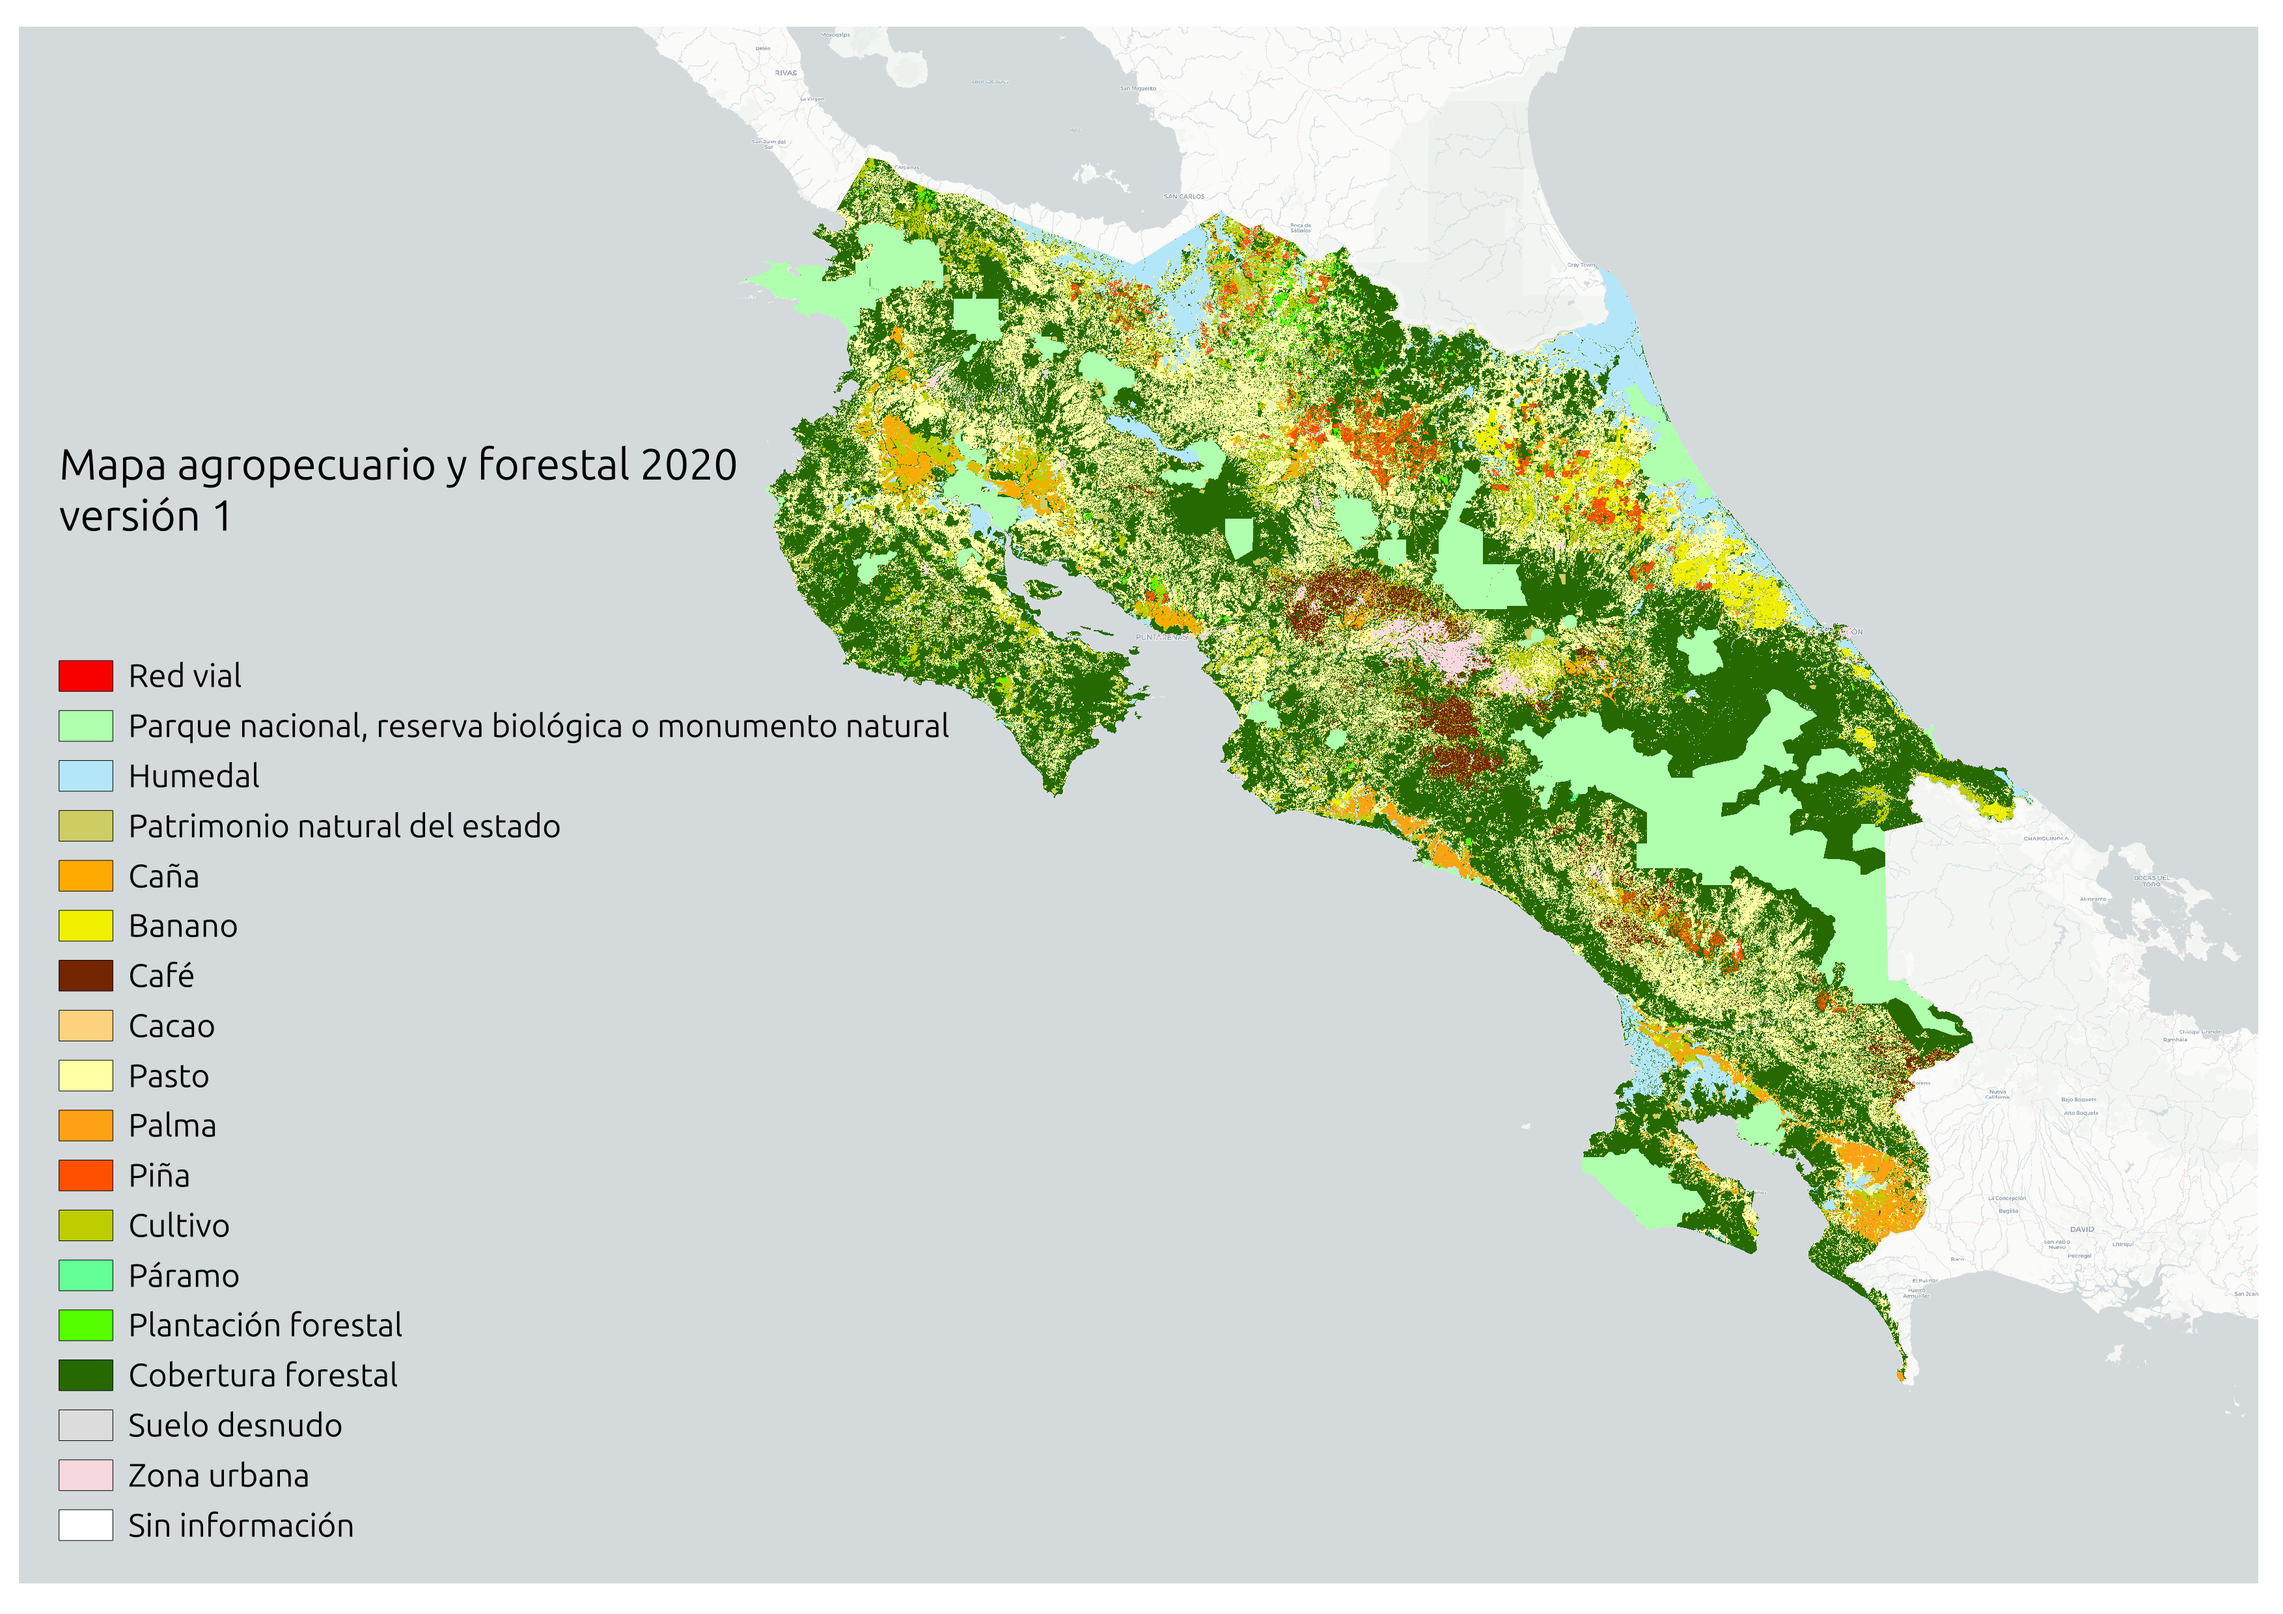
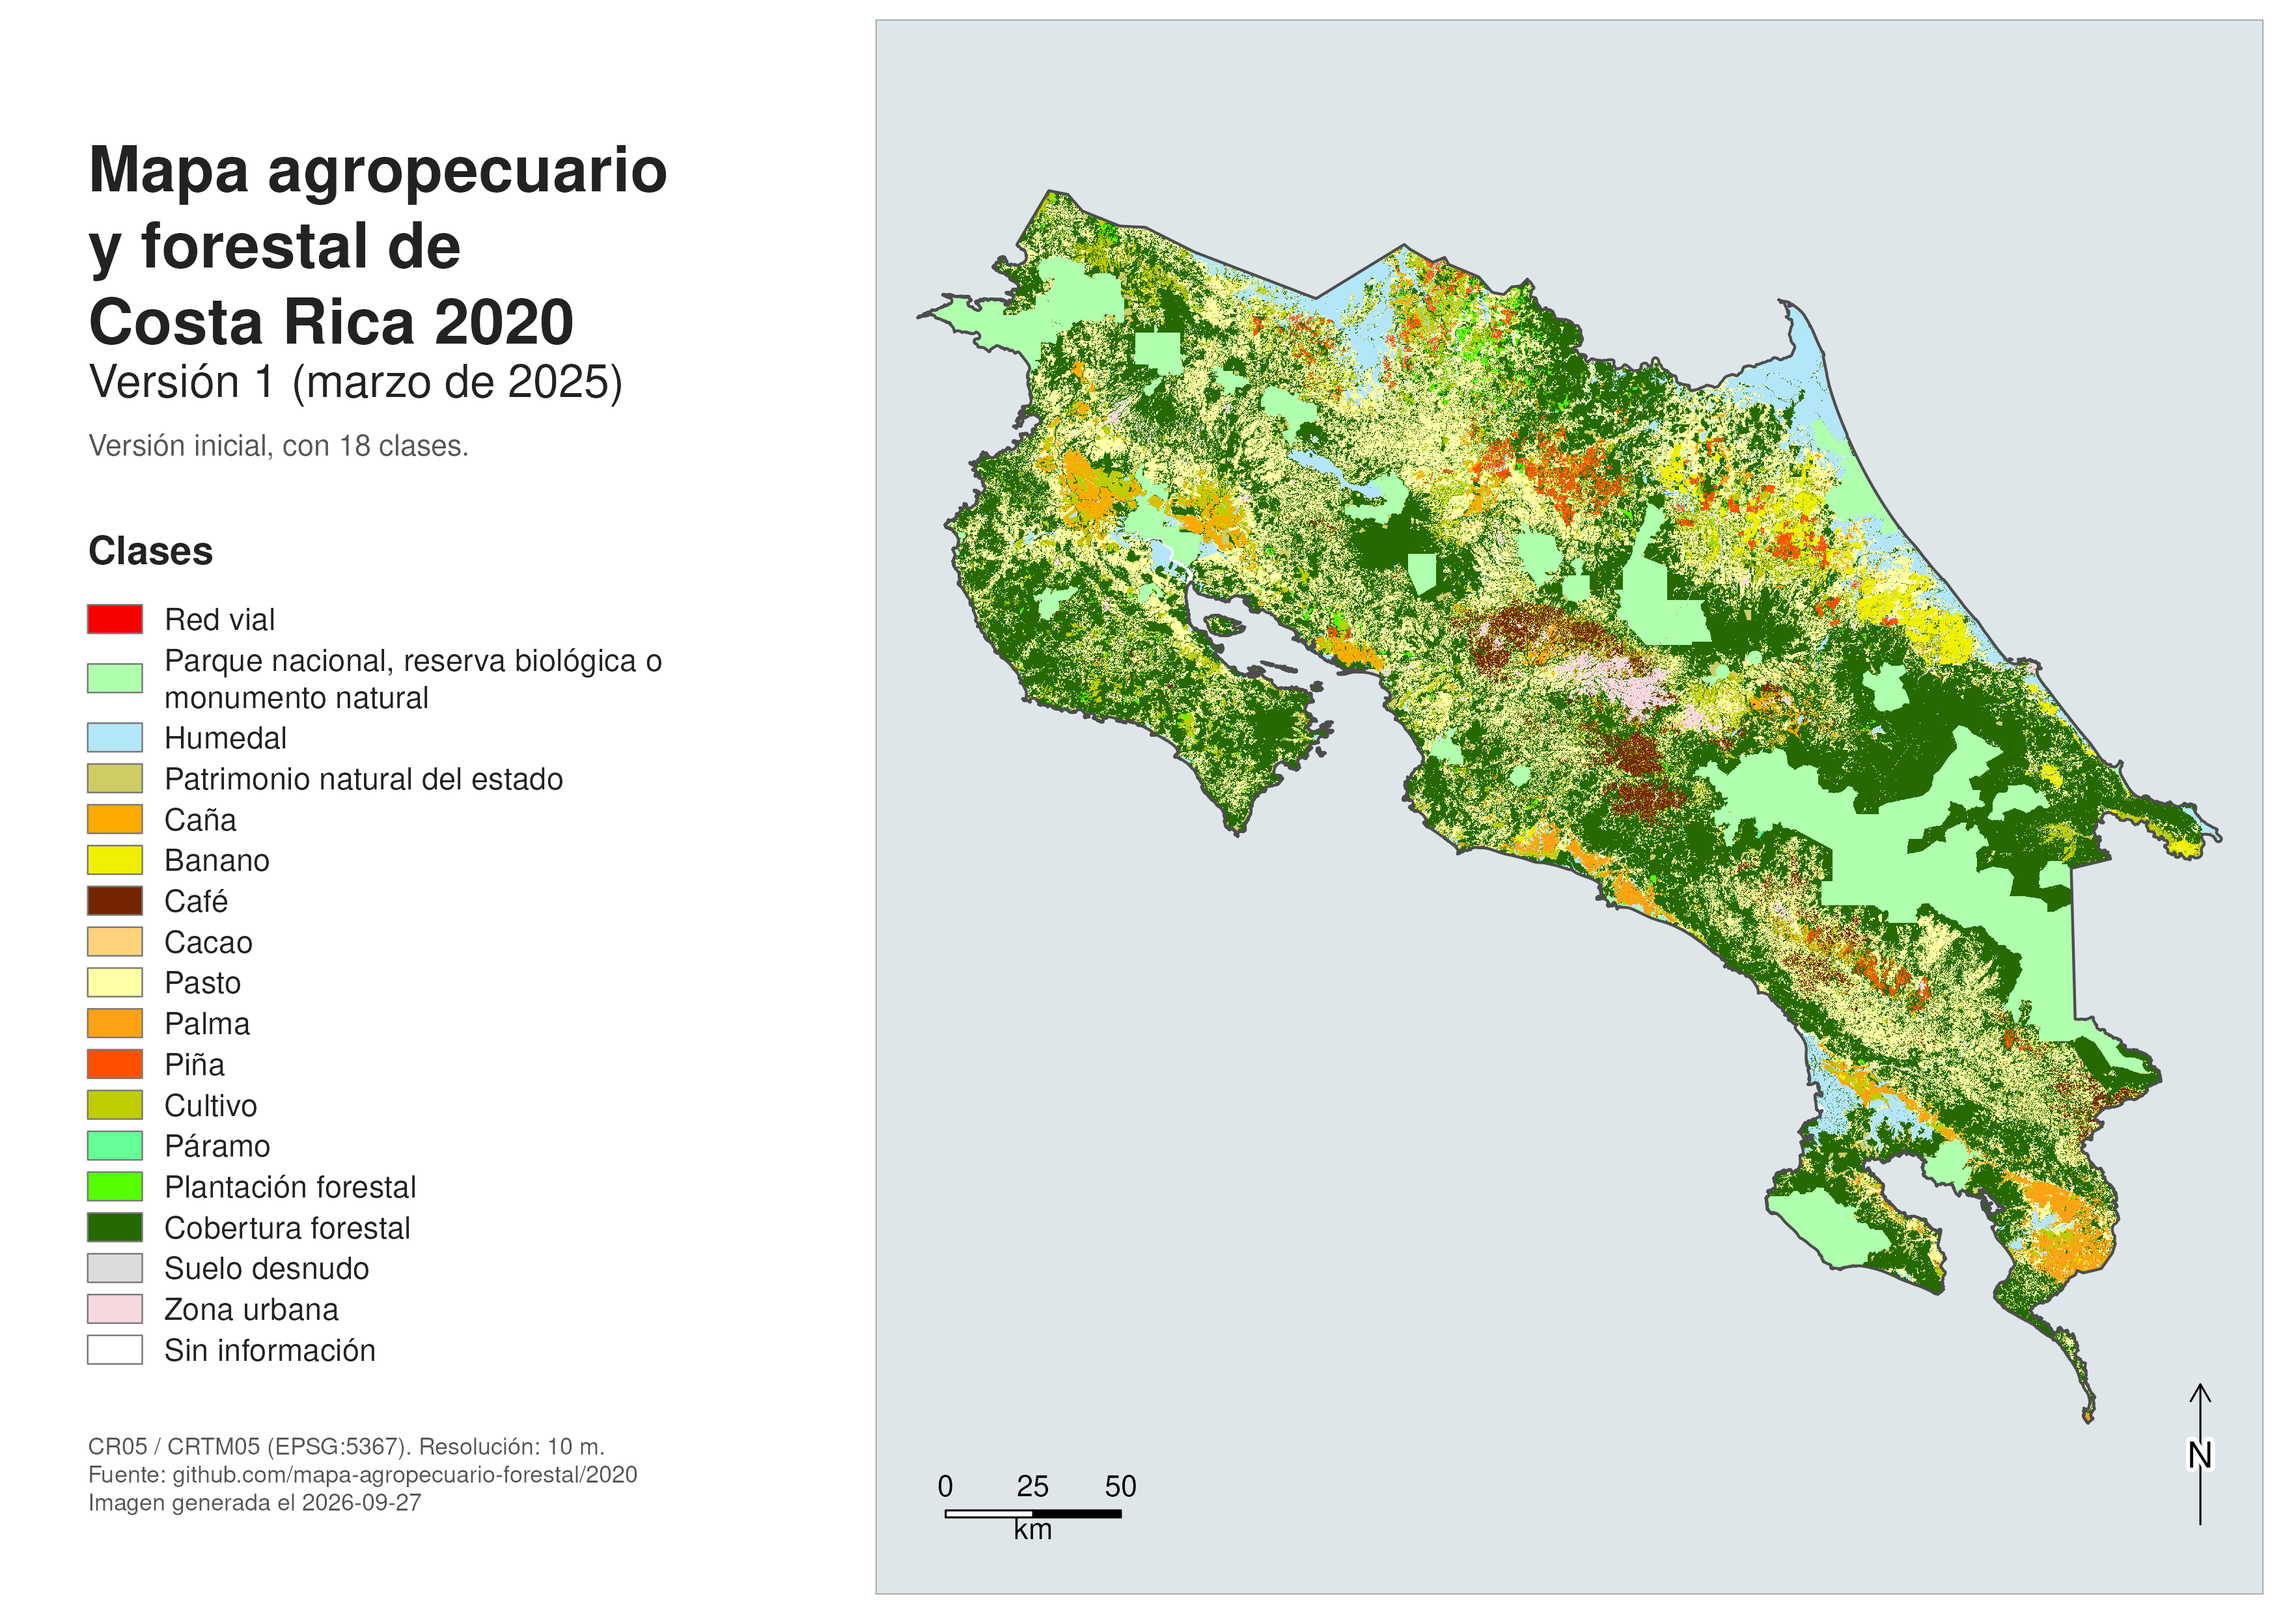
Generar los PNG de las cuatro versiones con una misma plantilla (generacion-png.R)

diff --git a/README.md b/README.md
@@ -58,11 +58,12 @@ Cada versión nueva se genera con copias `-vN` de los programas que cambiaron; l
     - Salidas
         - Tabla de atributos: `salidas/mapa-agropecuario-forestal-2020-v4.tif.vat.dbf` y `salidas/mapa-agropecuario-forestal-2020-v4.tif.vat.cpg`
 
-8. Generación del archivo PNG del mapa (a partir de la versión 4; en las versiones anteriores se generó con QGIS): `programas/generacion-png-v4.R`
+8. Generación de los archivos PNG de las cuatro versiones del mapa, con una misma plantilla (título, leyenda, contorno del país, escala y norte): `programas/generacion-png.R` (acepta como argumento el número de versión; sin argumento genera las cuatro)
     - Entradas
-        - Archivo raster de capa de uso agropecuario forestal (comprimida): `salidas/mapa-agropecuario-forestal-2020-v4.tif`
+        - Archivos raster de capa de uso agropecuario forestal (comprimida): `salidas/mapa-agropecuario-forestal-2020.tif` / `salidas/mapa-agropecuario-forestal-2020-v2.tif` / `salidas/mapa-agropecuario-forestal-2020-v3.tif` / `salidas/mapa-agropecuario-forestal-2020-v4.tif`
+        - Contorno de Costa Rica: `datos/originales/vectoriales/costarica.gpkg`
     - Salidas
-        - Archivo PNG: `salidas/mapa-agropecuario-forestal-2020-v4.png`
+        - Archivos PNG: `salidas/mapa-agropecuario-forestal-2020-v1.png` / `salidas/mapa-agropecuario-forestal-2020-v2.png` / `salidas/mapa-agropecuario-forestal-2020-v3.png` / `salidas/mapa-agropecuario-forestal-2020-v4.png`
 
 9. Verificación de la versión 4 respecto a la versión 3: `programas/verificacion-v4.R`
     - Entradas
